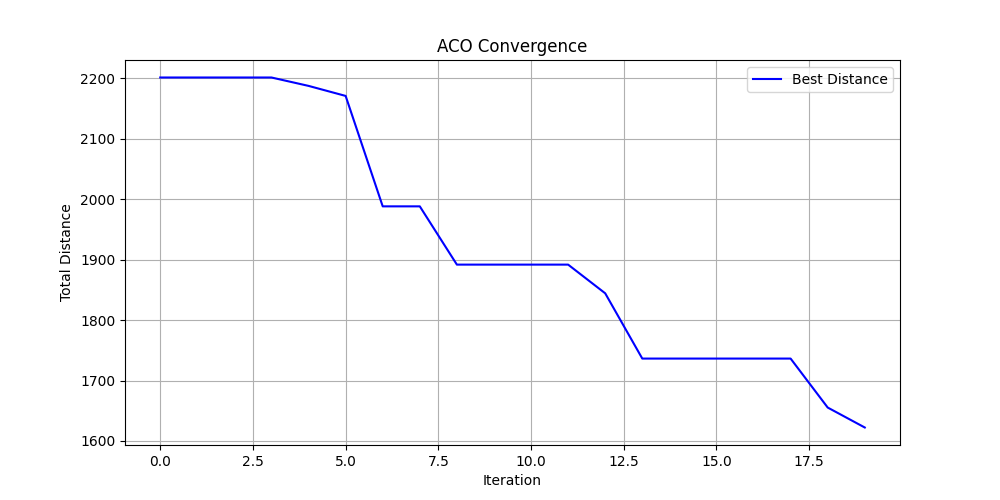
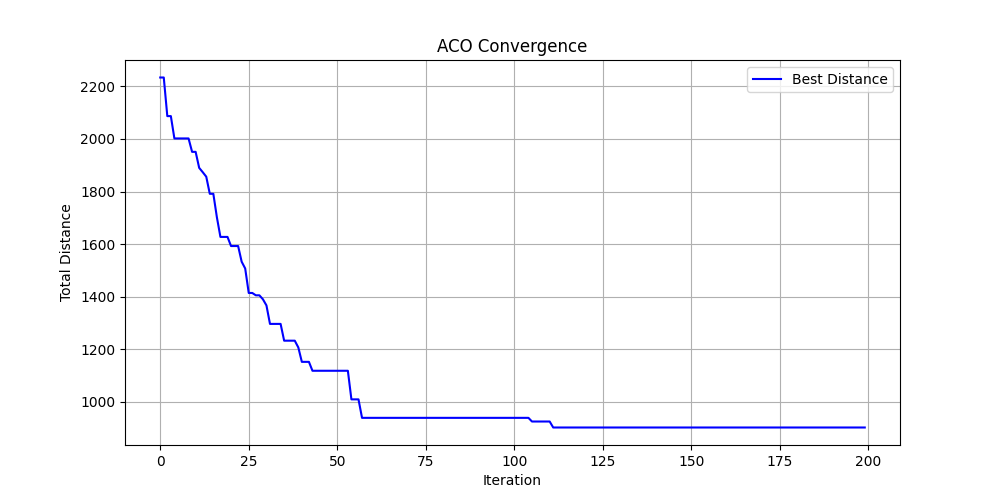
added experiment for report

diff --git a/pso_aco/Comparison_manager.py b/pso_aco/Comparison_manager.py
@@ -1,0 +1,208 @@
+import json
+import pandas as pd
+import numpy as np
+from datetime import datetime
+import os
+import matplotlib.pyplot as plt
+import seaborn as sns
+import time
+from typing import Dict, List
+
+from src.algorithms.aco.aco_optimizer import ACOOptimizer
+from src.algorithms.pso.pso_optimizer import PSOOptimizer
+from src.utils.data_loader import Problem
+
+class ExperimentManager:
+    def __init__(self, experiment_name="vrptw_comparison"):
+        self.experiment_name = experiment_name
+        self.results_dir = "experiment_results"
+        self.ensure_directories()
+        
+    def ensure_directories(self):
+        """Create necessary directories if they don't exist"""
+        dirs = [
+            self.results_dir,
+            f"{self.results_dir}/raw",
+            f"{self.results_dir}/processed",
+            f"{self.results_dir}/plots"
+        ]
+        for dir_path in dirs:
+            if not os.path.exists(dir_path):
+                os.makedirs(dir_path)
+
+    def save_run_result(self, algorithm: str, run_number: int, data: dict):
+        """Save individual run results"""
+        timestamp = datetime.now().strftime("%Y%m%d_%H%M%S")
+        filename = f"{self.results_dir}/raw/{algorithm}_run_{run_number}_{timestamp}.json"
+        
+        run_data = {
+            "algorithm": algorithm,
+            "run_number": run_number,
+            "timestamp": timestamp,
+            "distances": data["distances"],
+            "times": data["times"],
+            "final_distance": data["final_distance"],
+            "feasible": data["feasible"],
+            "n_routes": data["n_routes"],
+            "total_time": data["total_time"]
+        }
+        
+        with open(filename, 'w') as f:
+            json.dump(run_data, f, indent=2)
+            
+    def load_all_results(self) -> pd.DataFrame:
+        """Load all results into a pandas DataFrame"""
+        all_data = []
+        
+        for filename in os.listdir(f"{self.results_dir}/raw"):
+            if filename.endswith(".json"):
+                with open(f"{self.results_dir}/raw/{filename}", 'r') as f:
+                    data = json.load(f)
+                    all_data.append(data)
+        
+        return pd.DataFrame(all_data)
+    
+    def generate_analysis(self):
+        """Generate comprehensive analysis of all runs"""
+        df = self.load_all_results()
+        
+        # Basic statistics per algorithm
+        stats = df.groupby('algorithm').agg({
+            'final_distance': ['mean', 'std', 'min', 'max'],
+            'total_time': ['mean', 'std'],
+            'n_routes': ['mean', 'min', 'max']
+        }).round(2)
+        
+        # Save statistics
+        stats.to_csv(f"{self.results_dir}/processed/algorithm_statistics.csv")
+        
+        # Generate plots
+        self.generate_plots(df)
+            
+    def generate_plots(self, df: pd.DataFrame):
+        """Generate and save comparison plots"""
+        # 1. Convergence Plot
+        plt.figure(figsize=(10, 6))
+        for algo in df['algorithm'].unique():
+            algo_data = df[df['algorithm'] == algo]
+            
+            # Debug print
+            print(f"\nProcessing {algo}:")
+            print(f"Number of runs: {len(algo_data)}")
+            
+            try:
+                # Convert string representation of list to actual list if needed
+                distances_list = [
+                    json.loads(d) if isinstance(d, str) else d 
+                    for d in algo_data['distances']
+                ]
+                
+                # Ensure all distance lists are the same length
+                min_length = min(len(d) for d in distances_list)
+                distances_matrix = np.array([d[:min_length] for d in distances_list])
+                
+                mean_distances = np.mean(distances_matrix, axis=0)
+                std_distances = np.std(distances_matrix, axis=0)
+                
+                iterations = range(len(mean_distances))
+                plt.plot(iterations, mean_distances, label=algo, linewidth=2)
+                plt.fill_between(iterations, 
+                            mean_distances - std_distances,
+                            mean_distances + std_distances,
+                            alpha=0.2)
+                    
+                print(f"Processed distances shape: {distances_matrix.shape}")
+                print(f"Mean distance range: {mean_distances.min():.2f} - {mean_distances.max():.2f}")
+                
+            except Exception as e:
+                print(f"Error processing {algo} data: {str(e)}")
+                print("Sample data:", algo_data['distances'].iloc[0][:5])
+                continue
+                
+        plt.title('Convergence Comparison')
+        plt.xlabel('Iteration')
+        plt.ylabel('Distance')
+        plt.legend()
+        plt.grid(True)
+        
+        # Ensure proper axis scaling
+        plt.margins(x=0.02)
+        
+        # Add padding to y-axis
+        if plt.ylim()[0] < plt.ylim()[1]:  # Only if we have valid data
+            ymin, ymax = plt.ylim()
+            plt.ylim(ymin * 0.95, ymax * 1.05)
+        
+        plt.savefig(f"{self.results_dir}/plots/convergence_comparison.png")
+        plt.close()
+        
+        
+        # 2. Box Plot of Final Distances
+        plt.figure(figsize=(8, 6))
+        plt.boxplot([df[df['algorithm'] == algo]['final_distance'] 
+                    for algo in df['algorithm'].unique()],
+                    labels=df['algorithm'].unique())
+        plt.title('Final Solution Quality Distribution')
+        plt.ylabel('Distance')
+        plt.grid(True)
+        plt.savefig(f"{self.results_dir}/plots/solution_quality_boxplot.png")
+        plt.close()
+        
+        # 3. Computation Time Comparison
+        plt.figure(figsize=(8, 6))
+        plt.boxplot([df[df['algorithm'] == algo]['total_time'] 
+                    for algo in df['algorithm'].unique()],
+                    labels=df['algorithm'].unique())
+        plt.title('Computation Time Distribution')
+        plt.ylabel('Time (seconds)')
+        plt.grid(True)
+        plt.savefig(f"{self.results_dir}/plots/computation_time_boxplot.png")
+        plt.close()
+
+def run_experiment(problem, distance_matrix, time_matrix, n_runs=30, n_iterations=200):
+    """Run full experiment with both algorithms"""
+    experiment = ExperimentManager()
+    
+    for run in range(n_runs):
+        print(f"\nRun {run + 1}/{n_runs}")
+        
+        # ACO Run
+        aco = ACOOptimizer(problem, distance_matrix, time_matrix, 50, 1.0, 2.0, 0.1)
+        start_time = time.time()
+        solution, distances, times = aco.optimize(n_iterations)
+        total_time = time.time() - start_time
+        
+        experiment.save_run_result(
+            algorithm="ACO",
+            run_number=run,
+            data={
+                "distances": distances,
+                "times": times,
+                "final_distance": solution.total_distance,
+                "feasible": solution.feasible,
+                "n_routes": len(solution.routes),
+                "total_time": total_time
+            }
+        )
+        
+        # PSO Run
+        pso = PSOOptimizer(problem, distance_matrix, time_matrix, 200, 0.9, 2.5, 1.5)
+        start_time = time.time()
+        solution, distances, times = pso.optimize(n_iterations)
+        total_time = time.time() - start_time
+        
+        experiment.save_run_result(
+            algorithm="PSO",
+            run_number=run,
+            data={
+                "distances": distances,
+                "times": times,
+                "final_distance": solution.total_distance,
+                "feasible": solution.feasible,
+                "n_routes": len(solution.routes),
+                "total_time": total_time
+            }
+        )
+    
+    # Generate analysis after all runs
+    experiment.generate_analysis()

diff --git a/pso_aco/src/algorithms/aco/aco_optimizer.py b/pso_aco/src/algorithms/aco/aco_optimizer.py
@@ -30,6 +30,11 @@ class ACOOptimizer(BaseOptimizer):
         best_distance = float('inf')
         no_improvement = 0
 
+        # For tracking
+        distances = []
+        times = []
+        start_time = time.time()
+        
         # Initialize visualizer
         visualizer = ACOVisualizer(self.problem, self.distance_matrix)
         
@@ -56,7 +61,10 @@ class ACOOptimizer(BaseOptimizer):
             solution_costs = [self.calculate_total_distance(s) for s in solutions]
             self.colony.update_pheromone(solutions, solution_costs)
 
-                        # Record state for visualization
+            distances.append(best_distance)  # Record current best distance
+            times.append(time.time() - start_time)  # Record elapsed time
+
+            # Record state for visualization
             if best_solution:  # Only record if we have a valid solution
                 visualizer.record_state(
                     self.colony.pheromone,
@@ -71,10 +79,10 @@ class ACOOptimizer(BaseOptimizer):
         print(f"Number of Routes: {len(best_solution)}")
 
           # Generate visualizations
-        visualizer.plot_pheromone_evolution('results/pheromone_evolution.png')
-        visualizer.plot_convergence('results/convergence.png')
-        visualizer.create_route_animation('results/route_evolution.gif')
-        visualizer.animate_pheromone_evolution('results/pheromone_evolution.gif')
+        #visualizer.plot_pheromone_evolution('results/pheromone_evolution.png')
+       #visualizer.plot_convergence('results/convergence.png')
+       # visualizer.create_route_animation('results/route_evolution.gif')
+       # visualizer.animate_pheromone_evolution('results/pheromone_evolution.gif')
 
         for i, route in enumerate(best_solution, start=1):
             total_load = sum(self.problem.customers[customer-1].demand for customer in route)
@@ -114,11 +122,13 @@ class ACOOptimizer(BaseOptimizer):
             if time_feasible:
                 print("  Time Constraints Satisfied")
     
-        return Solution(
+        solution = Solution(
             routes=best_solution if best_solution else [],
             total_distance=best_distance if best_solution else float('inf'),
             feasible=True if best_solution else False
         )
+    
+        return solution, distances, times
     
     def calculate_total_distance(self, routes: List[List[int]]) -> float:
         """Calculate total distance for all routes."""

diff --git a/pso_aco/src/algorithms/pso/pso_optimizer.py b/pso_aco/src/algorithms/pso/pso_optimizer.py
@@ -170,6 +170,9 @@ class PSOOptimizer(BaseOptimizer):
     
 
     def optimize(self, max_iterations: int) -> Solution:
+
+        distances = []
+        times = []
         # Initialize visualizer
         visualizer = PSOVisualizer(self.problem, self.distance_matrix)
         
@@ -216,6 +219,9 @@ class PSOOptimizer(BaseOptimizer):
                     
                     current_distance = self.swarm.global_best_fitness
                     current_routes = self.swarm.global_best_routes
+
+                    distances.append(current_distance)
+                    times.append(time.time() - start_time)
                     
                     if current_routes and len(current_routes) <= self.problem.vehicles:
                         if current_distance < best_distance:
@@ -251,14 +257,16 @@ class PSOOptimizer(BaseOptimizer):
         print(f"Best distance across attempts: {best_distance:.2f}")
         print(f"Routes: {len(best_solution) if best_solution else 0}/{self.problem.vehicles}")
         
-        visualizer.plot_convergence('results/pso_convergence.png')
-        visualizer.create_route_animation('results/pso_route_evolution.gif')
+       # visualizer.plot_convergence('results/pso_convergence.png')
+       # visualizer.create_route_animation('results/pso_route_evolution.gif')
 
-        return Solution(
+        solution = Solution(
             routes=best_solution,
             total_distance=best_distance,
             feasible=bool(best_solution)
         )
+
+        return solution, distances, times
 
     def calculate_total_distance(self, routes: List[List[int]]) -> float:
         """Calculate total distance for all routes"""

diff --git a/pso_aco/run_experiment.py b/pso_aco/run_experiment.py
@@ -1,0 +1,29 @@
+from src.utils.data_loader import load_solomon_instance
+from src.utils.distance_util import create_distance_matrix, create_time_matrix
+from Comparison_manager import ExperimentManager, run_experiment
+
+def main():
+    # Load problem
+    print("Loading problem instance...")
+    problem = load_solomon_instance('data/c101.txt')
+    print(f"Loaded problem with {len(problem.customers)} customers")
+    
+    # Create matrices
+    print("Creating distance and time matrices...")
+    dist_matrix = create_distance_matrix(problem.customers, problem.depot)
+    time_matrix = create_time_matrix(problem, dist_matrix)
+    
+    # Run experiment
+    print("\nStarting experiment...")
+    run_experiment(
+        problem=problem,
+        distance_matrix=dist_matrix,
+        time_matrix=time_matrix,
+        n_runs=20,        # Number of independent runs
+        n_iterations=100  # Iterations per run
+    )
+    
+    print("\nExperiment completed. Check 'experiment_results' directory for analysis.")
+
+if __name__ == "__main__":
+    main()
